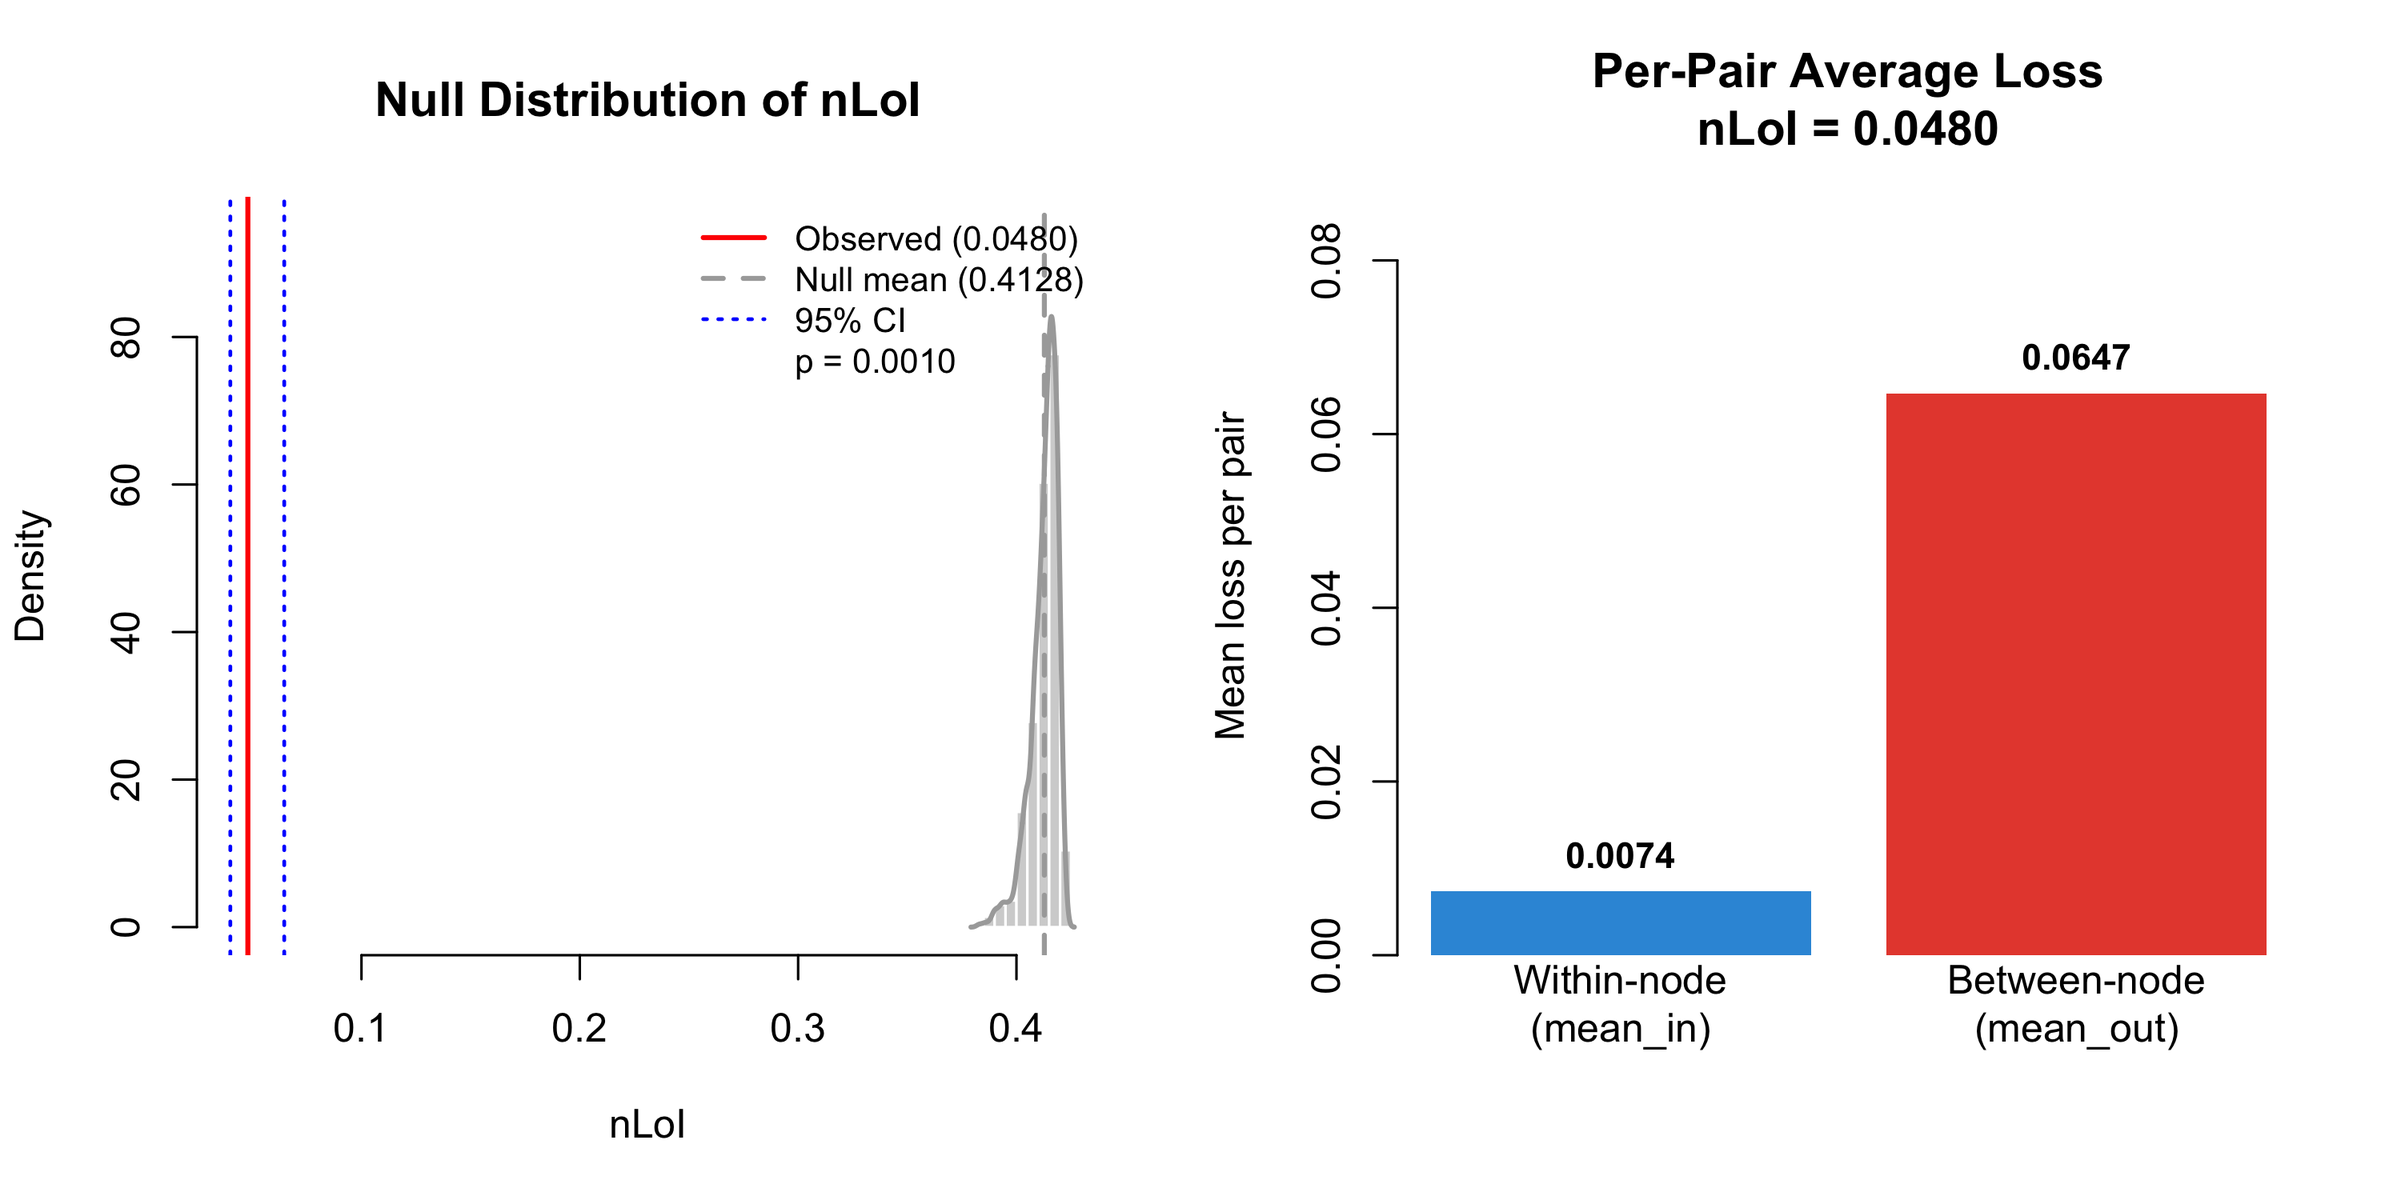
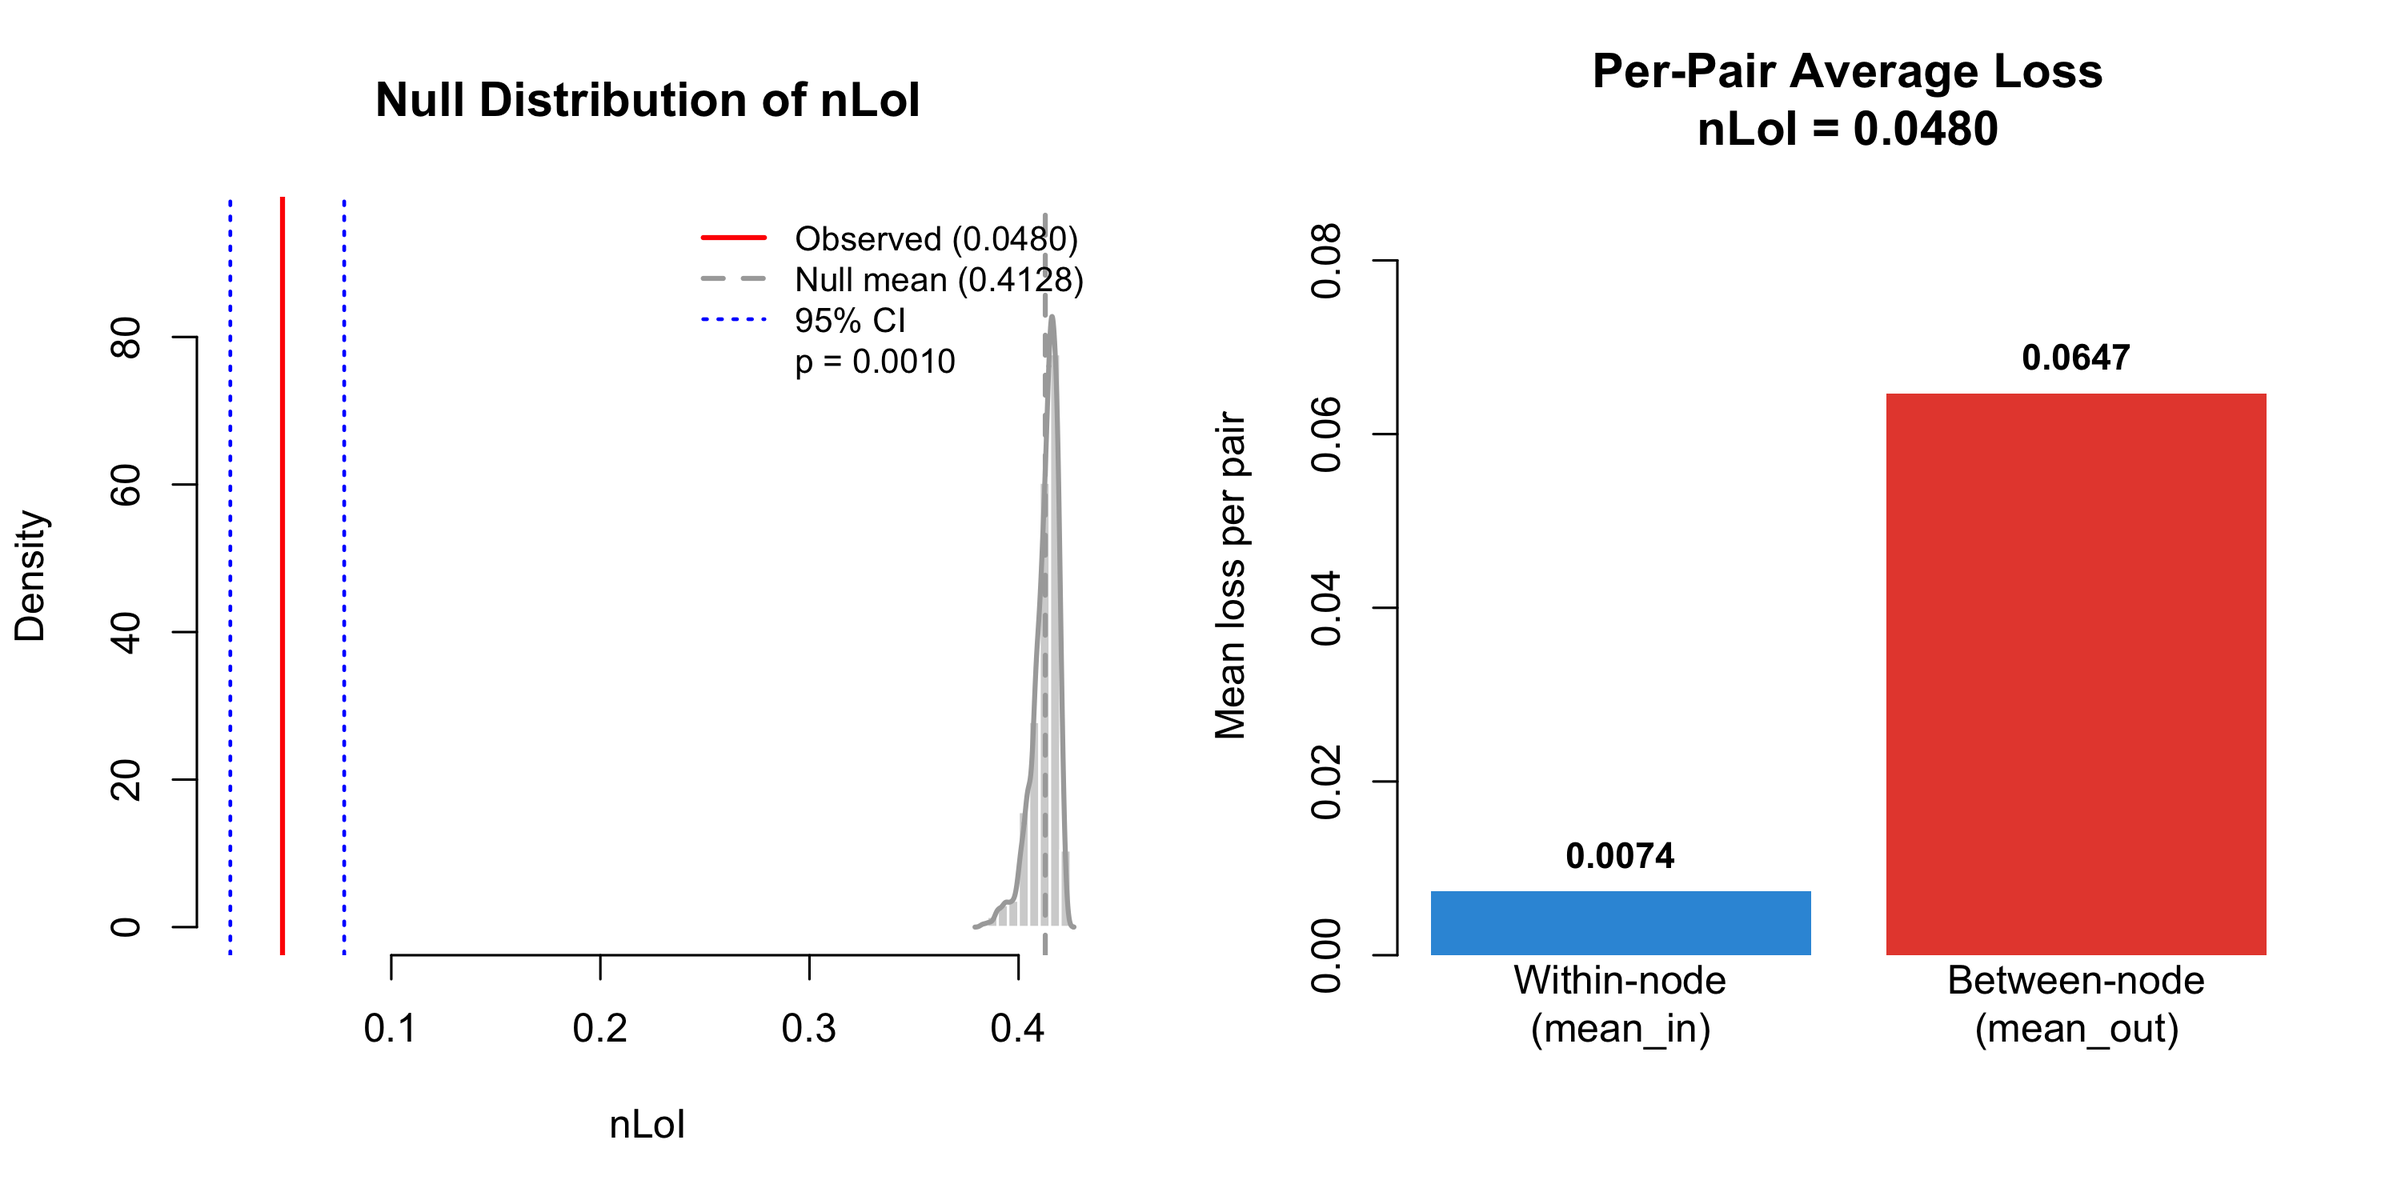
Version 1.3.0: NEWS, README and vignettes for the nLoI measures
- DESCRIPTION: 1.3.0.
- NEWS: breaking changes (Wt in regression, eValidation output, effect of the
  Wilcoxon fallback on regression trees), fidelity measures, localLoI fixes.
- README and vignettes: describe transform, kappa, n_boot, delta, sqrt_nLoI and
  Mantel; use transform = "none" where the nLoI of the paper is meant.
- README.md regenerated from README.Rmd.

diff --git a/README.md b/README.md
@@ -320,13 +320,13 @@ Use the standard `predict()` method for prediction on new data:
 # Predict on validation set
 pred <- predict(tree, newdata = validation, target = "virginica")
 head(pred)
-#>      fit accuracy score
-#> 1 setosa        1     0
-#> 2 setosa        1     0
-#> 3 setosa        1     0
-#> 4 setosa        1     0
-#> 5 setosa        1     0
-#> 6 setosa        1     0
+#>      fit accuracy score node
+#> 1 setosa        1     0    2
+#> 2 setosa        1     0    2
+#> 3 setosa        1     0    2
+#> 4 setosa        1     0    2
+#> 5 setosa        1     0    2
+#> 6 setosa        1     0    2
 ```
 
 Comparison of predictions (training sample) of RF and e2tree
@@ -481,13 +481,30 @@ argument:
 | Measure | Type | Range | What it measures |
 |----|----|----|----|
 | **nLoI** | divergence | \[0, 1\] | Normalized Loss of Interpretability — weighted divergence with diagnostic decomposition |
+| **sqrt(nLoI)** | divergence | \[0, 1\] | Square root of the nLoI — a proper metric (the nLoI itself violates the triangle inequality) |
 | **Hellinger** | divergence | \[0, 1\] | Hellinger distance — robust to sparse matrices |
 | **wRMSE** | divergence | \[0, 1\] | Weighted RMSE — emphasizes high-proximity regions |
 | **RV** | similarity | \[0, 1\] | RV coefficient — global structural similarity (scale-invariant) |
 | **SSIM** | similarity | \[-1, 1\] | Structural Similarity Index — captures local block patterns |
 
 All measures are tested simultaneously using a **unified row/column
-permutation test**.
+permutation test**, and the Mantel correlation is reported in the same
+table with the same permutations. Every measure also comes with a
+chance-corrected fidelity `kappa` (the null mean of the nLoI is computed
+exactly). With `n_boot > 0` the intervals are obtained by an
+observation-level bootstrap, and `delta` adds an equivalence test of H0:
+nLoI \>= `delta`.
+
+Two details matter when comparing with the nLoI paper:
+
+- **Scale.** By default (`transform = "sqrt"`) the measures are computed
+  on the square roots of the proximity matrices. The scale on which they
+  are defined in the paper is the proximities themselves, which
+  `transform = "none"` gives.
+- **Leaf weights in regression.** The E2Tree proximity uses the leaf
+  weight `Wt`, the normalized-variance index, which can be zero for
+  leaves that are too heterogeneous. Within-node pairs are then
+  identified from the leaves of the tree and not from `O_hat > 0`.
 
 ### Running the validation
 
@@ -500,32 +517,27 @@ val <- eValidation(training, tree, D, test = "both", graph = FALSE, n_perm = 999
 ``` r
 print(val)
 #> 
-#> ##############################################################################
-#>    E2Tree Validation
-#> ##############################################################################
+#>   E2Tree Validation
+#>   Matrix dimension: 90 x 90   Pairs: 4005   Scale: sqrt(O)
+#>   Mantel test (ape): z = 1046.09, p = 0.0010
 #> 
-#>   Matrix dimension:    90 x 90
-#>   Pairs:               4005
+#>   --------------------------------------------------------------------------------------------
+#>   Measure           Observed Null mean    kappa         Z   p-value
+#>   --------------------------------------------------------------------------------------------
+#>   nLoI       [div]    0.0480    0.4128    0.884    -56.66     0.001 
+#>   sqrt_nLoI  [div]    0.2190    0.6423    0.659    -83.83     0.001 
+#>   Hellinger  [div]    0.2154    0.6250    0.655    -81.19     0.001 
+#>   wRMSE      [div]    0.1700    0.8406    0.798   -142.36     0.001 
+#>   RV         [sim]    0.9674    0.3294    0.951    +57.04     0.001 
+#>   SSIM       [sim]    0.6420    0.0088    0.639   +116.47     0.001 
+#>   Mantel     [sim]    0.9566    0.0006    0.957    +57.04     0.001 
+#>   --------------------------------------------------------------------------------------------
+#>   Permutations: 999 (row/column, shared by all measures)
+#>   LoI decomposition (per-pair averages): mean_in = 0.0074, mean_out = 0.0647
 #> 
-#>   Mantel test:         z = 1046.09, p = 0.0010
-#> 
-#> ------------------------------------------------------------------------------
-#>   Measure          Type        Observed    Null mean    Z-stat     p-value
-#> ------------------------------------------------------------------------------
-#>   nLoI           [div]     0.0480     0.4126     -56.63   0.0010 ** 
-#>   Hellinger      [div]     0.2154     0.6250     -81.19   0.0010 ** 
-#>   wRMSE          [div]     0.1700     0.8406    -142.36   0.0010 ** 
-#>   RV             [sim]     0.9674     0.3294     +57.04   0.0010 ** 
-#>   SSIM           [sim]     0.6420     0.0088    +116.47   0.0010 ** 
-#> ------------------------------------------------------------------------------
-#>   Permutations: 999 (row/column), conf.level: 95%
-#> 
-#>   LoI Decomposition (per-pair avg):  mean_in = 0.007366,  mean_out = 0.064683
-#> 
-#>   [div] = divergence (lower=better), [sim] = similarity (higher=better)
-#>   Signif. codes: 0 '***' 0.001 '**' 0.01 '*' 0.05 '.' 0.1
-#> 
-#> ##############################################################################
+#>   [div] lower = better; [sim] higher = better. kappa: 1 = perfect, 0 = random relabelling.
+#>   The permutation test assesses association only; fidelity is judged by the
+#>   observed values, kappa and their confidence intervals.
 ```
 
 **Summary** — includes the LoI diagnostic decomposition:
@@ -533,32 +545,27 @@ print(val)
 ``` r
 summary(val)
 #> 
-#> ##############################################################################
-#>    E2Tree Validation
-#> ##############################################################################
+#>   E2Tree Validation
+#>   Matrix dimension: 90 x 90   Pairs: 4005   Scale: sqrt(O)
+#>   Mantel test (ape): z = 1046.09, p = 0.0010
 #> 
-#>   Matrix dimension:    90 x 90
-#>   Pairs:               4005
+#>   --------------------------------------------------------------------------------------------
+#>   Measure           Observed Null mean    kappa         Z   p-value
+#>   --------------------------------------------------------------------------------------------
+#>   nLoI       [div]    0.0480    0.4128    0.884    -56.66     0.001 
+#>   sqrt_nLoI  [div]    0.2190    0.6423    0.659    -83.83     0.001 
+#>   Hellinger  [div]    0.2154    0.6250    0.655    -81.19     0.001 
+#>   wRMSE      [div]    0.1700    0.8406    0.798   -142.36     0.001 
+#>   RV         [sim]    0.9674    0.3294    0.951    +57.04     0.001 
+#>   SSIM       [sim]    0.6420    0.0088    0.639   +116.47     0.001 
+#>   Mantel     [sim]    0.9566    0.0006    0.957    +57.04     0.001 
+#>   --------------------------------------------------------------------------------------------
+#>   Permutations: 999 (row/column, shared by all measures)
+#>   LoI decomposition (per-pair averages): mean_in = 0.0074, mean_out = 0.0647
 #> 
-#>   Mantel test:         z = 1046.09, p = 0.0010
-#> 
-#> ------------------------------------------------------------------------------
-#>   Measure          Type        Observed    Null mean    Z-stat     p-value
-#> ------------------------------------------------------------------------------
-#>   nLoI           [div]     0.0480     0.4126     -56.63   0.0010 ** 
-#>   Hellinger      [div]     0.2154     0.6250     -81.19   0.0010 ** 
-#>   wRMSE          [div]     0.1700     0.8406    -142.36   0.0010 ** 
-#>   RV             [sim]     0.9674     0.3294     +57.04   0.0010 ** 
-#>   SSIM           [sim]     0.6420     0.0088    +116.47   0.0010 ** 
-#> ------------------------------------------------------------------------------
-#>   Permutations: 999 (row/column), conf.level: 95%
-#> 
-#>   LoI Decomposition (per-pair avg):  mean_in = 0.007366,  mean_out = 0.064683
-#> 
-#>   [div] = divergence (lower=better), [sim] = similarity (higher=better)
-#>   Signif. codes: 0 '***' 0.001 '**' 0.01 '*' 0.05 '.' 0.1
-#> 
-#> ##############################################################################
+#>   [div] lower = better; [sim] higher = better. kappa: 1 = perfect, 0 = random relabelling.
+#>   The permutation test assesses association only; fidelity is judged by the
+#>   observed values, kappa and their confidence intervals.
 #> 
 #> 
 #> 
@@ -599,6 +606,30 @@ plot(val)
 
 <img src="man/figures/README-unnamed-chunk-26-1.png" alt="" width="100%" />
 
+**On the scale of the paper, with bootstrap intervals:**
+
+``` r
+val_paper <- eValidation(training, tree, D, test = "measures", graph = FALSE,
+                         n_perm = 999, n_boot = 199, transform = "none", seed = 42)
+measures(val_paper)
+#>              method       type   observed    null_mean     null_sd     z_stat
+#> nLoI           nLoI divergence 0.02379816 3.968858e-01 0.006328491  -58.95365
+#> sqrt_nLoI sqrt_nLoI divergence 0.15426653 6.299786e-01 0.005048059  -94.23661
+#> Hellinger Hellinger divergence 0.13674034 6.180578e-01 0.005004481  -96.17731
+#> wRMSE         wRMSE divergence 0.16462378 8.548019e-01 0.004754145 -145.17397
+#> RV               RV similarity 0.98350707 3.049371e-01 0.011838679   57.31805
+#> SSIM           SSIM similarity 0.83109941 1.086159e-02 0.005709038  143.67355
+#> Mantel       Mantel similarity 0.97689017 1.509565e-05 0.017043061   57.31805
+#>           p_value     kappa   ci_lower   ci_upper
+#> nLoI        0.001 0.9400378 0.01247859 0.03621428
+#> sqrt_nLoI   0.001 0.7551242 0.11170731 0.19030050
+#> Hellinger   0.001 0.7787580 0.08625090 0.18057890
+#> wRMSE       0.001 0.8074129 0.13187447 0.19795346
+#> RV          0.001 0.9762713 0.97362860 0.99065051
+#> SSIM        0.001 0.8292447         NA         NA
+#> Mantel      0.001 0.9768898 0.96497040 0.98636848
+```
+
 ### Extracting results with accessors
 
 Use accessor functions instead of direct `$` access:
@@ -606,18 +637,22 @@ Use accessor functions instead of direct `$` access:
 ``` r
 # Validation measures table
 measures(val)
-#>      method       type   observed   null_mean     null_sd     z_stat p_value
-#> 1      nLoI divergence 0.04796755 0.412605505 0.006438700  -56.63223   0.001
-#> 2 Hellinger divergence 0.21542068 0.625021454 0.005044737  -81.19368   0.001
-#> 3     wRMSE divergence 0.16995523 0.840584726 0.004710777 -142.36068   0.001
-#> 4        RV similarity 0.96743746 0.329429934 0.011185735   57.03760   0.001
-#> 5      SSIM similarity 0.64198676 0.008751186 0.005436671  116.47487   0.001
-#>     ci_lower  ci_upper
-#> 1 0.04013923 0.0626473
-#> 2 0.20911191 0.2271914
-#> 3 0.16400739 0.1810256
-#> 4 0.94219513 0.9816048
-#> 5 0.62833640 0.6503210
+#>              method       type   observed   null_mean     null_sd     z_stat
+#> nLoI           nLoI divergence 0.04796755 0.412781685 0.006438700  -56.65959
+#> sqrt_nLoI sqrt_nLoI divergence 0.21901496 0.642323933 0.005049318  -83.83489
+#> Hellinger Hellinger divergence 0.21542068 0.625021454 0.005044737  -81.19368
+#> wRMSE         wRMSE divergence 0.16995523 0.840584726 0.004710777 -142.36068
+#> RV               RV similarity 0.96743746 0.329429934 0.011185735   57.03760
+#> SSIM           SSIM similarity 0.64198676 0.008751186 0.005436671  116.47487
+#> Mantel       Mantel similarity 0.95659031 0.000551734 0.016761549   57.03760
+#>           p_value     kappa
+#> nLoI        0.001 0.8837944
+#> sqrt_nLoI   0.001 0.6590272
+#> Hellinger   0.001 0.6553387
+#> wRMSE       0.001 0.7978131
+#> RV          0.001 0.9514405
+#> SSIM        0.001 0.6388261
+#> Mantel      0.001 0.9565664
 
 # Proximity matrices
 prox <- proximity(val, type = "both")
@@ -643,6 +678,10 @@ interpretable components:
 Since the number of within-node and between-node pairs can differ
 dramatically, the `loi()` function reports **per-pair averages**
 (`mean_in` and `mean_out`) that enable meaningful comparison:
+
+When some leaves have weight zero (possible in regression), pass the
+leaf of each row through the `leaves` argument, as `eValidation()` does
+internally; otherwise within-node pairs are identified by `O_hat > 0`.
 
 ``` r
 O <- proximity(val, type = "ensemble")
@@ -696,7 +735,7 @@ The per-pair averages provide actionable diagnostics:
 For a quick significance assessment:
 
 ``` r
-perm <- loi_perm(O, O_hat, n_perm = 999, seed = 42)
+perm <- loi_perm(O, O_hat, n_perm = 999, n_boot = 199, seed = 42)
 print(perm)
 #> 
 #> ==============================================================================
@@ -712,7 +751,7 @@ print(perm)
 #>   Hypothesis Test (H1: nLoI < expected by chance)
 #> ------------------------------------------------------------------------------
 #>   p-value:             0.0010 **
-#>   95% CI:             [0.0399, 0.0646]
+#>   95% CI:             [0.0230, 0.0775]
 #>   Permutations:        999 (row/column)
 #> 
 #> ------------------------------------------------------------------------------

diff --git a/NEWS.md b/NEWS.md
@@ -1,4 +1,25 @@
-# e2tree (development version)
+# e2tree 1.3.0
+
+## Breaking changes
+
+* Regression E2Trees: the E2Tree proximity matrix O-hat now uses the leaf weight `Wt` (normalized-variance index of Aria et al., 2025) instead of the `prob` column, which held a residual sum of squares truncated at one. This is a bug fix and no option restores the previous values; validation measures of regression trees change accordingly (classification trees are unaffected, as they have no `Wt`).
+* `eValidation()` output: the shifted permutation "confidence interval" has been removed. The measures table gains `kappa`, bootstrap intervals (`n_boot`), the equivalence test (`delta`), and the rows `sqrt_nLoI` and `Mantel`.
+* `e2tree()` (regression): when the split with the lowest impurity does not pass the Wilcoxon test, the next candidates, in order of impurity, are tried (at most 10) instead of closing the node. Together with the quantile binning of thresholds described below, this can change the regression trees grown from the same ensemble and dissimilarity matrix, which is itself unchanged. For instance, on the Boston housing data with `impTotal = 0.01, maxDec = 0.001, n = 5, level = 10` the tree goes from 21 to 29 leaves, almost all of it due to the fallback. The thresholds can be restored to all distinct values with `setting = list(..., max_thresholds = Inf)`; the fallback has no switch.
+
+## Reconstruction-fidelity measures (revision of the nLoI paper)
+
+* `eValidation()` gains `transform = c("sqrt", "none")`. The default, `"sqrt"`, keeps the previous behaviour (measures on the square roots of O and O-hat); `transform = "none"` computes the measures on the proximities O and O-hat, the scale on which they are defined in the nLoI paper.
+* New measure `sqrt_nLoI`, the square root of the nLoI, which is a metric (the nLoI itself does not satisfy the triangle inequality). The Mantel correlation is now reported in the same table, using the same permutations.
+* Chance-corrected fidelity `kappa` for every measure; the null mean of the nLoI is computed exactly in closed form.
+* Confidence intervals are obtained by an observation-level bootstrap (`n_boot`), and `delta` gives an equivalence test H0: nLoI >= delta.
+* `loi()` returns `sqrt_nloi`, `null_mean` and `kappa`, and gains `leaves`, so that the in-leaf/out-of-leaf decomposition is correct when some leaves have weight zero; `loi_perm()` gains `seed` and `n_boot`.
+* Measure computations are shared in a single internal core (`R/fidelity.R`); the permuted off-diagonal vector is extracted once per permutation and reused by all measures. SSIM is about three times faster (identical values) and no longer fails when the window is larger than n.
+
+## Local LoI aligned with the nLoI paper
+
+* `localLoI()` now defines within- and between-leaf pairs from the actual leaves of the E2Tree, as `loi(leaves = )` does, instead of assuming that two observations share a leaf only if their O-hat is positive. In regression, leaves of weight zero have O-hat equal to zero also between their own members, so the former rule counted those pairs as between-leaf and inflated `loi_out` (by about 24% on a Boston tree with 9 such leaves). The global `nloi` was not affected. The partition is taken from the new `leaves` argument, from `fit`, or, failing both, from the blocks of O-hat; the last option cannot recognise leaves of weight zero and now warns when some observations have no within-leaf neighbour.
+* The proximity matrices returned by `eValidation()` are in hierarchical-clustering order, with the original observation indices as row names. `localLoI(fit = )` used to read the node ids in data order, so per-node values were attributed to the wrong observations. It now maps the leaves to the rows through the row names, and `obs` reports the original observation index.
+* The nLoI of the paper is defined on the proximities themselves: use `eValidation(..., transform = "none")` to obtain matrices on that scale.
 
 ## Panel e2tree: new capabilities
 
